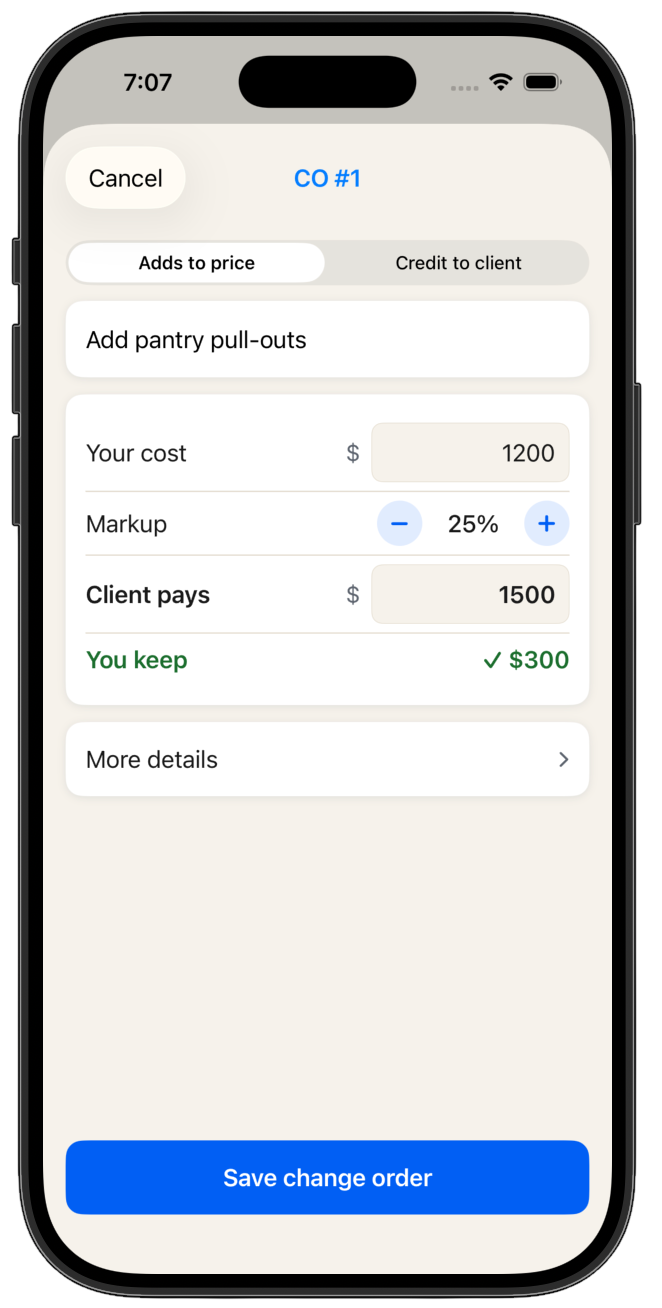
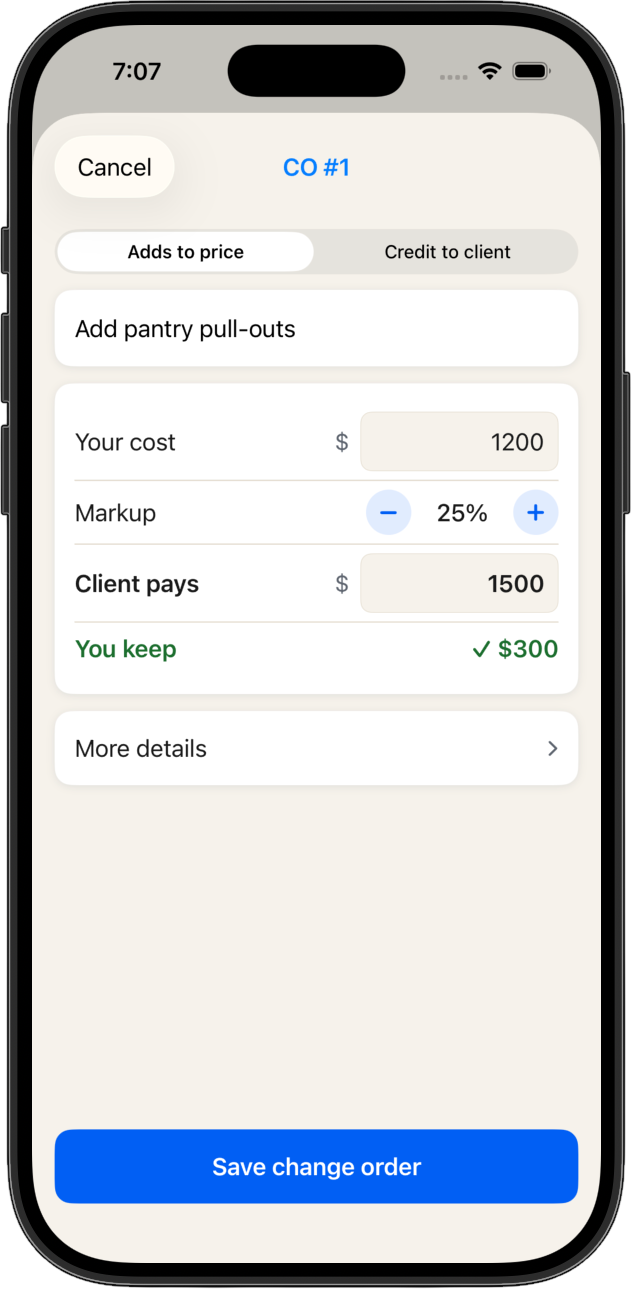
Match all screenshot phone sizes (crop estimate and change order)

diff --git a/index.html b/index.html
@@ -186,8 +186,8 @@
         </div>
         <div class="screen-grid">
           <img class="device-shot" src="/images/screens/project-gauges.png?v=2" alt="Project details with contingency and profit gauges" width="631" height="1289">
-          <img class="device-shot" src="/images/screens/estimate.png" alt="Estimate screen showing client price and what you keep" width="666" height="1310">
-          <img class="device-shot" src="/images/screens/change-order.png" alt="Change order screen that rolls a new item into the job price" width="662" height="1308">
+          <img class="device-shot" src="/images/screens/estimate.png?v=3" alt="Estimate screen showing client price and what you keep" width="631" height="1289">
+          <img class="device-shot" src="/images/screens/change-order.png?v=3" alt="Change order screen that rolls a new item into the job price" width="631" height="1289">
         </div>
       </div>
     </div>
